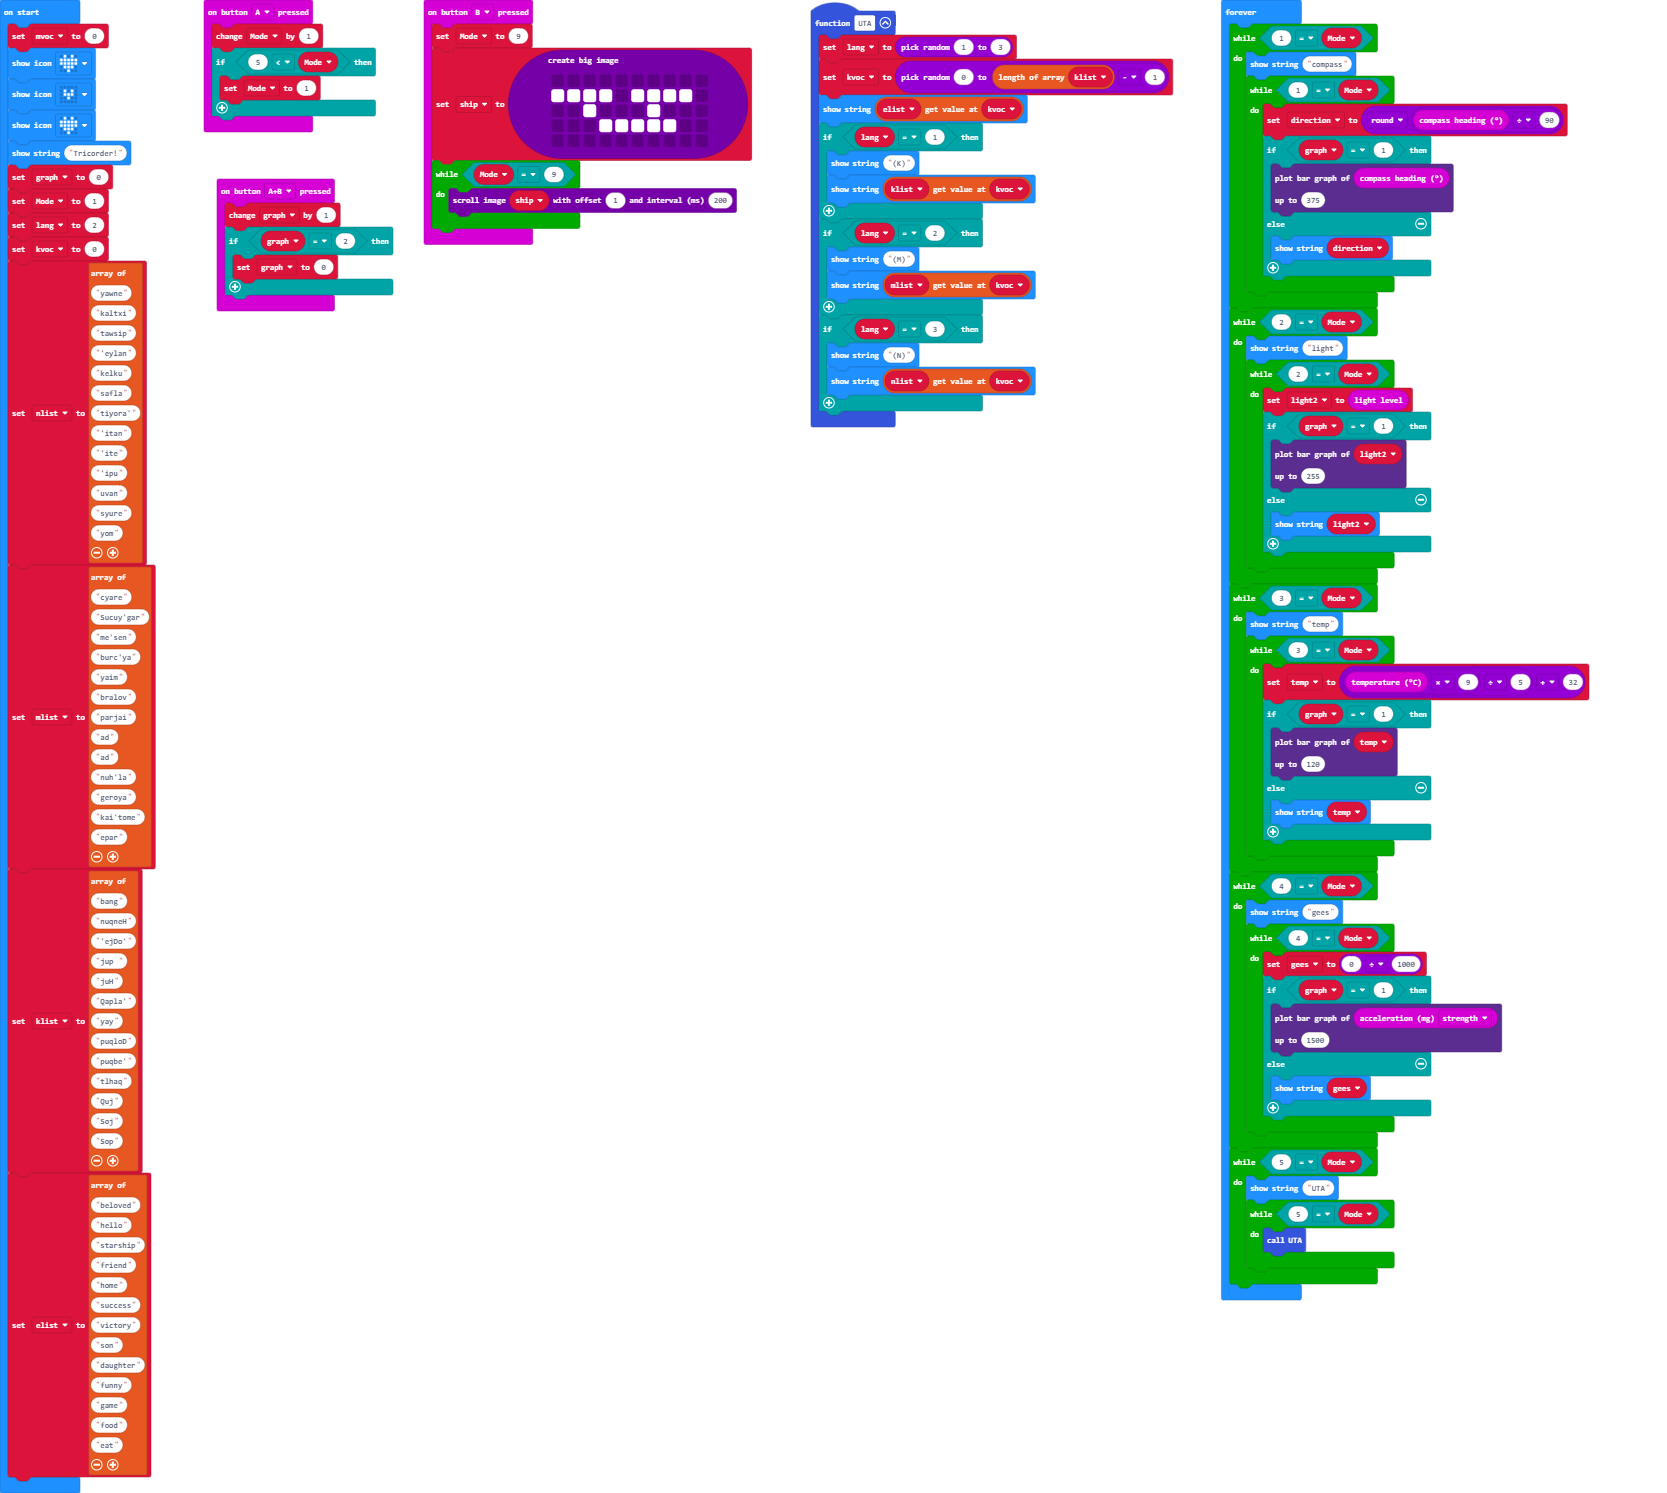
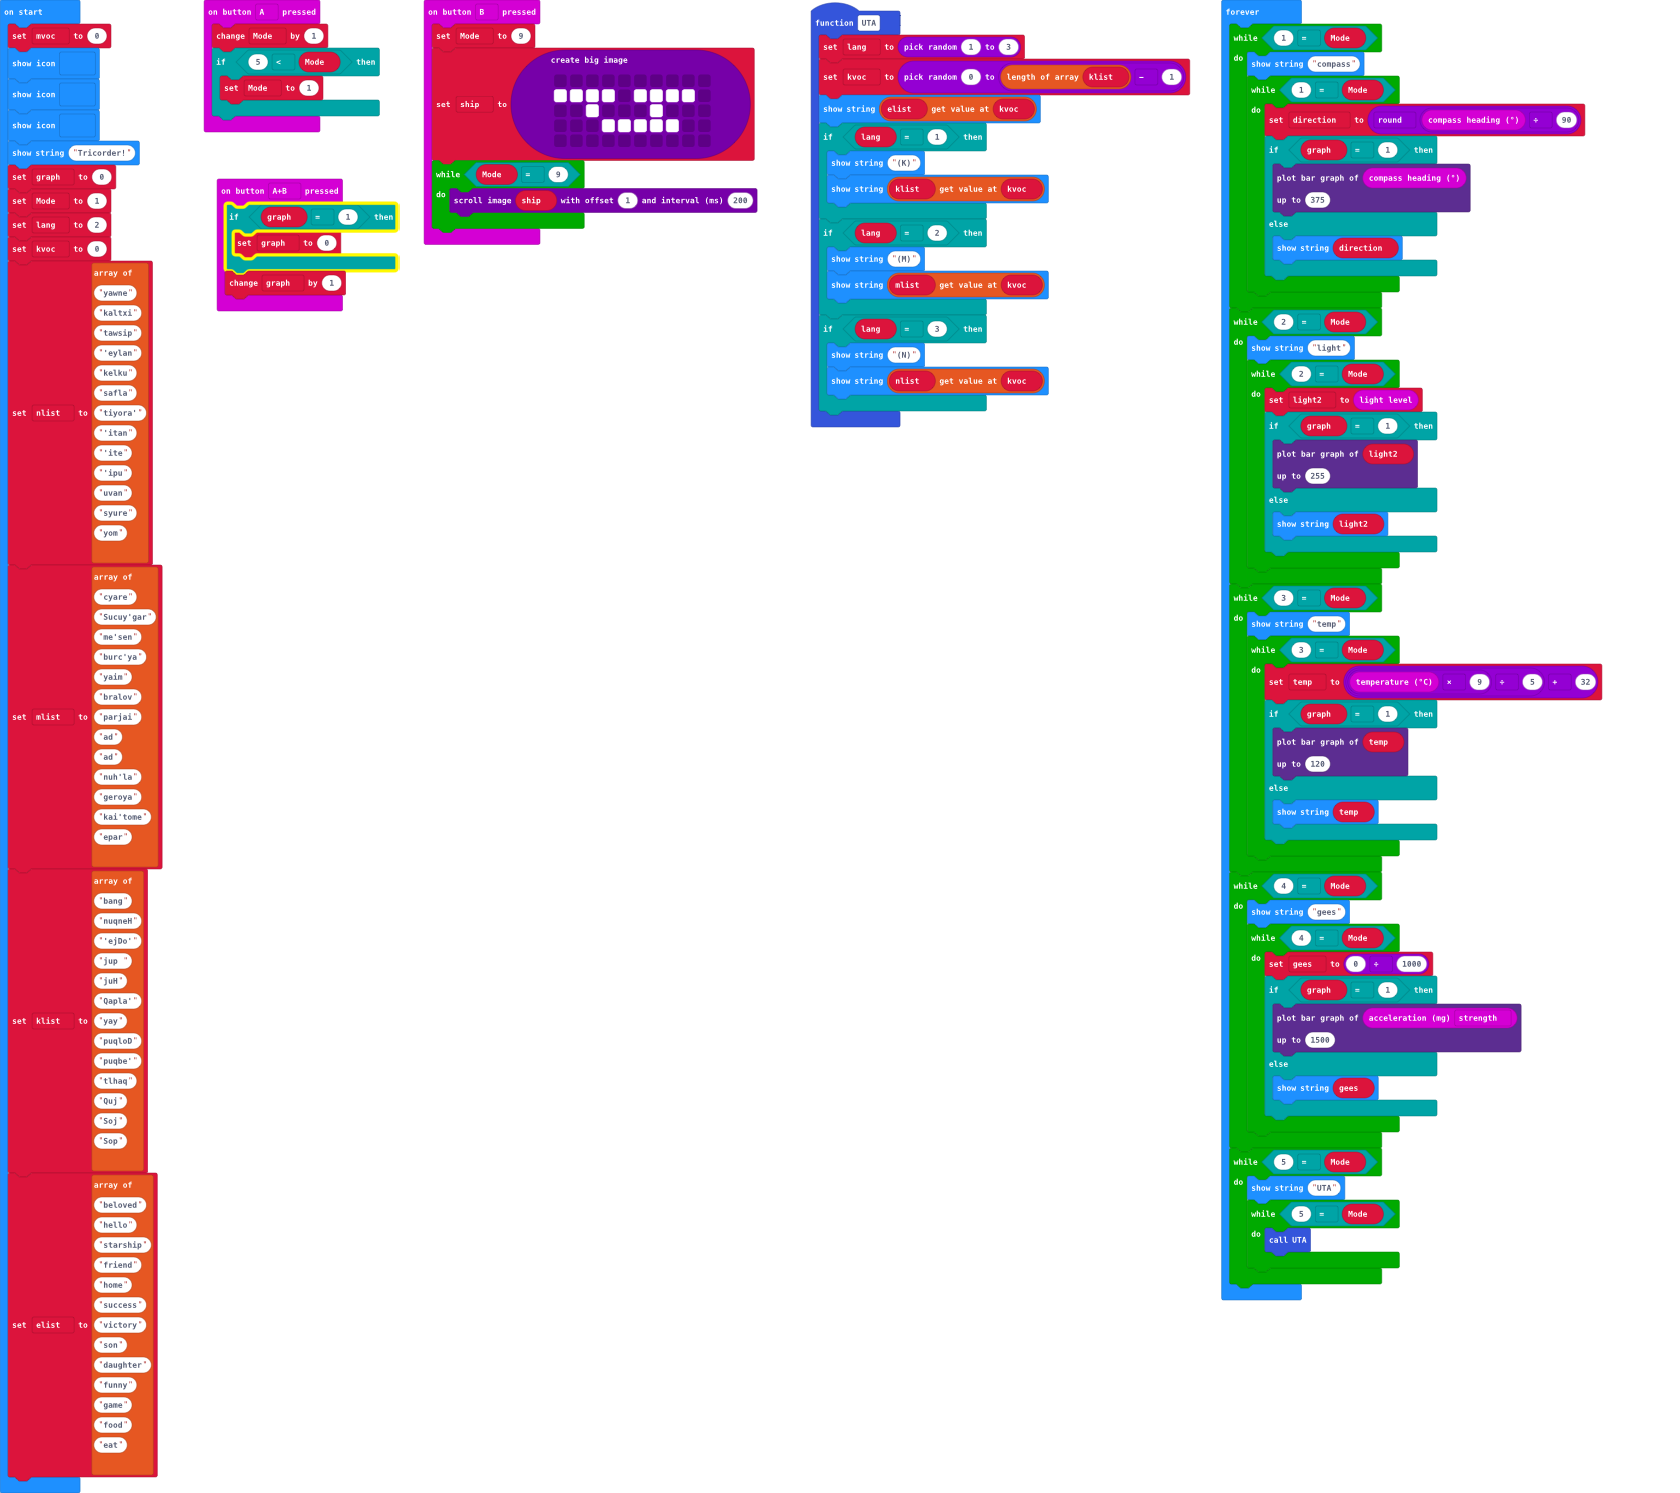
Update pxt.json, main.blocks, main.ts

Changed region(s): [[0.1248, 0.0, 0.967, 0.8627], [0.0, 0.0, 0.1248, 0.9859], [0.1248, 0.0, 0.2184, 0.0924]]

diff --git a/main.ts b/main.ts
@@ -5,10 +5,10 @@ input.onButtonPressed(Button.A, function () {
     }
 })
 input.onButtonPressed(Button.AB, function () {
-    graph += 1
-    if (graph == 2) {
+    if (graph == 1) {
         graph = 0
     }
+    graph += 1
 })
 input.onButtonPressed(Button.B, function () {
     Mode = 9
@@ -62,10 +62,66 @@ graph = 0
 Mode = 1
 lang = 2
 kvoc = 0
-nlist = ["yawne", "kaltxi", "tawsip", "'eylan", "kelku", "safla", "tiyora'", "'itan", "'ite", "'ipu", "uvan", "syure", "yom"]
-mlist = ["cyare", "Sucuy'gar", "me'sen", "burc'ya", "yaim", "bralov", "parjai", "ad", "ad", "nuh'la", "geroya", "kai'tome", "epar"]
-klist = ["bang", "nuqneH", "'ejDo'", "jup ", "juH", "Qapla'", "yay", "puqloD", "puqbe'", "tlhaq", "Quj", "Soj", "Sop"]
-elist = ["beloved", "hello", "starship", "friend", "home", "success", "victory", "son", "daughter", "funny", "game", "food", "eat"]
+nlist = [
+"yawne",
+"kaltxi",
+"tawsip",
+"'eylan",
+"kelku",
+"safla",
+"tiyora'",
+"'itan",
+"'ite",
+"'ipu",
+"uvan",
+"syure",
+"yom"
+]
+mlist = [
+"cyare",
+"Sucuy'gar",
+"me'sen",
+"burc'ya",
+"yaim",
+"bralov",
+"parjai",
+"ad",
+"ad",
+"nuh'la",
+"geroya",
+"kai'tome",
+"epar"
+]
+klist = [
+"bang",
+"nuqneH",
+"'ejDo'",
+"jup ",
+"juH",
+"Qapla'",
+"yay",
+"puqloD",
+"puqbe'",
+"tlhaq",
+"Quj",
+"Soj",
+"Sop"
+]
+elist = [
+"beloved",
+"hello",
+"starship",
+"friend",
+"home",
+"success",
+"victory",
+"son",
+"daughter",
+"funny",
+"game",
+"food",
+"eat"
+]
 basic.forever(function () {
     while (1 == Mode) {
         basic.showString("compass")
